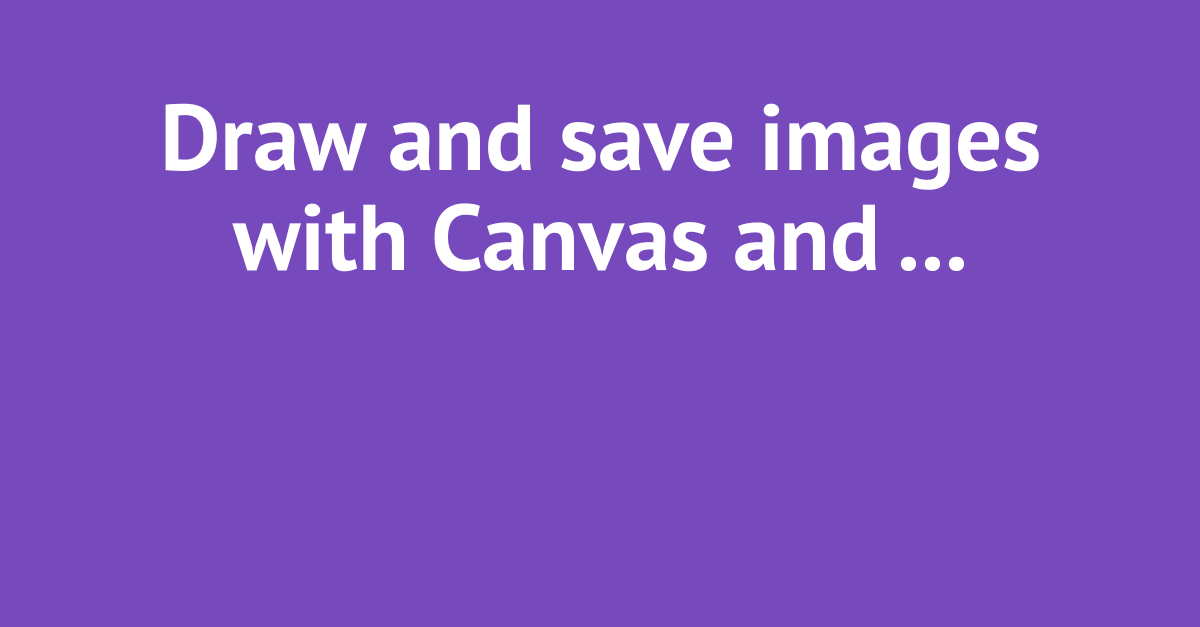
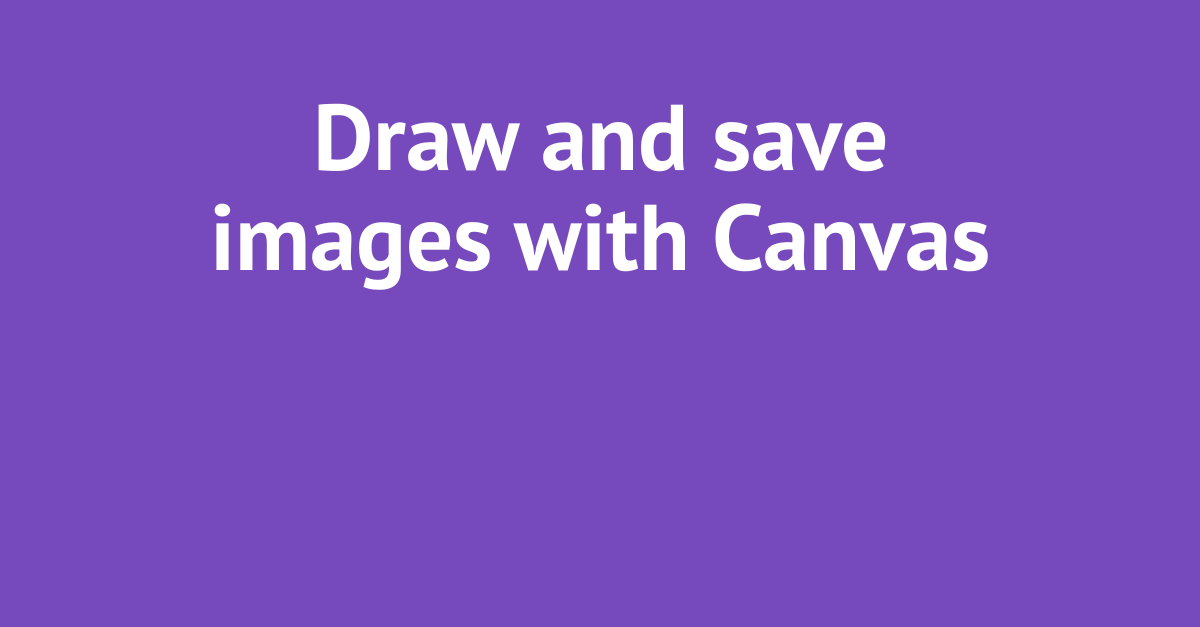
Show two full lines

Changed region(s): [[0.1542, 0.303, 0.8325, 0.4848], [0.1233, 0.1515, 0.8633, 0.303]]

diff --git a/examples/generate-meta-images/generate-image.js b/examples/generate-meta-images/generate-image.js
@@ -4,7 +4,7 @@ const fs = require("fs");
 const { formatTitle } = require("./utils/format-title");
 
 const post = {
-  title: "Draw and save images with Canvas and Node",
+  title: "Draw and save images with Canvas",
 };
 
 const width = 1200;
